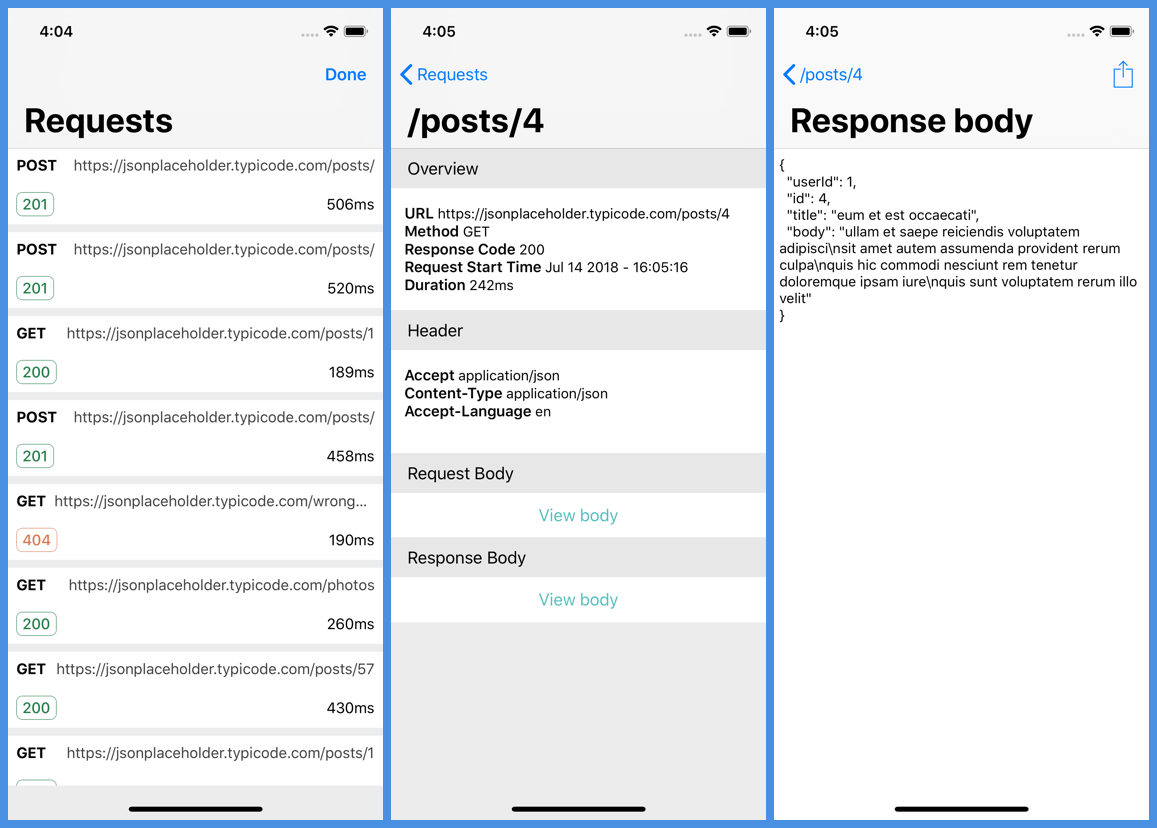
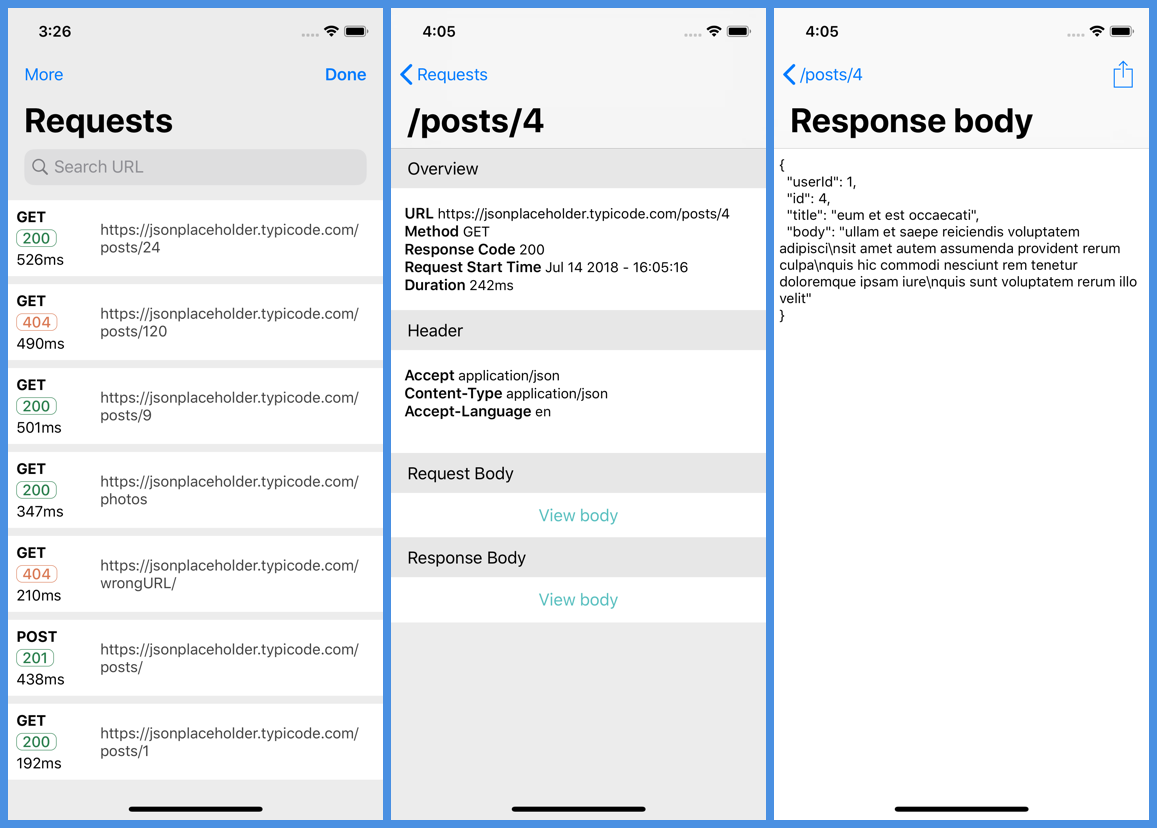
Some UI improvements for RequestCell. The number of lines for URL label now is 0. It helps to display a long URL

Changed region(s): [[0.0, 0.1812, 0.3423, 0.936], [0.0311, 0.0906, 0.0622, 0.1208], [0.0311, 0.0302, 0.0622, 0.0604]]

diff --git a/Sources/Wormholy.swift b/Sources/Wormholy.swift
@@ -75,6 +75,7 @@ public class Wormholy: NSObject
         }
         let storyboard = UIStoryboard(name: "Flow", bundle: WHBundle.getBundle())
         if let initialVC = storyboard.instantiateInitialViewController(){
+            initialVC.modalPresentationStyle = .fullScreen
             UIViewController.currentViewController()?.present(initialVC, animated: true, completion: nil)
         }
     }
